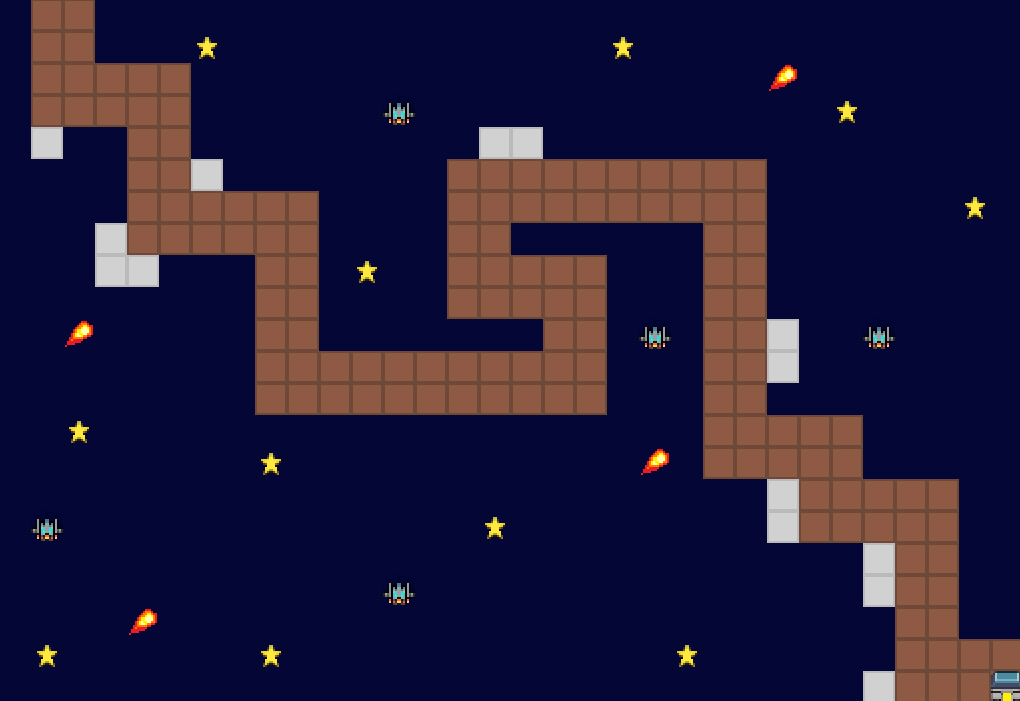
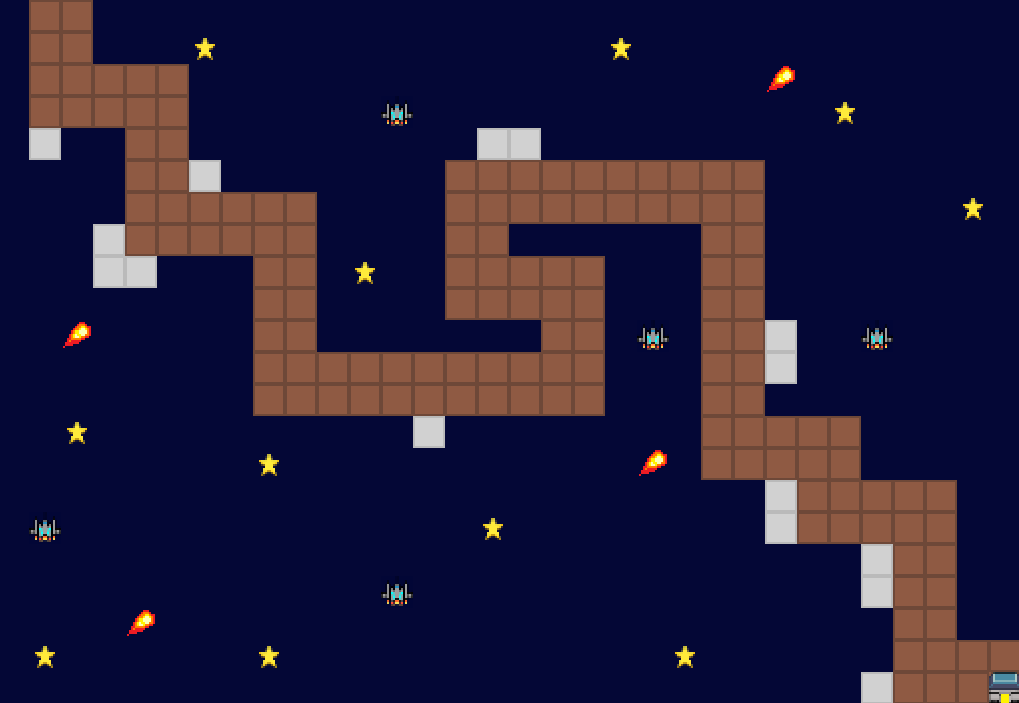
changement terrain

diff --git a/src/main/java/com/example/sae/modele/Terrain.java b/src/main/java/com/example/sae/modele/Terrain.java
@@ -1,5 +1,8 @@
 package com.example.sae.modele;
 
+import javax.swing.*;
+import java.awt.*;
+
 public class Terrain {
     public final static int POSEV=4;
 
@@ -20,7 +23,7 @@ public class Terrain {
                     {0, 0, 6, 0, 0, 0, 0, 0, 1, 1, 0, 0, 0, 0, 0, 0, 0, 1, 1, 0, 7, 0, 1, 1, 4, 0, 0, 7, 0, 0, 0, 0},
                     {0, 0, 0, 0, 0, 0, 0, 0, 1, 1, 1, 1, 1, 1, 1, 1, 1, 1, 1, 0, 0, 0, 1, 1, 4, 0, 0, 0, 0, 0, 0, 0},
                     {0, 0, 0, 0, 0, 0, 0, 0, 1, 1, 1, 1, 1, 1, 1, 1, 1, 1, 1, 0, 0, 0, 1, 1, 0, 0, 0, 0, 0, 0, 0, 0},
-                    {0, 0, 5, 0, 0, 0, 0, 0, 0, 0, 0, 0, 0, 0, 0, 0, 0, 0, 0, 0, 0, 0, 1, 1, 1, 1, 1, 0, 0, 0, 0, 0},
+                    {0, 0, 5, 0, 0, 0, 0, 0, 0, 0, 0, 0, 0, 4, 0, 0, 0, 0, 0, 0, 0, 0, 1, 1, 1, 1, 1, 0, 0, 0, 0, 0},
                     {0, 0, 0, 0, 0, 0, 0, 0, 5, 0, 0, 0, 0, 0, 0, 0, 0, 0, 0, 0, 6, 0, 1, 1, 1, 1, 1, 0, 0, 0, 0, 0},
                     {0, 0, 0, 0, 0, 0, 0, 0, 0, 0, 0, 0, 0, 0, 0, 0, 0, 0, 0, 0, 0, 0, 0, 0, 4, 1, 1, 1, 1, 1, 0, 0},
                     {0, 7, 0, 0, 0, 0, 0, 0, 0, 0, 0, 0, 0, 0, 0, 5, 0, 0, 0, 0, 0, 0, 0, 0, 4, 1, 1, 1, 1, 1, 0, 0},
@@ -32,31 +35,42 @@ public class Terrain {
             };
         }else if (choixTerrain==2){
             this.tileMap = new int[][]{
-                    {0, 1, 1, 0, 0, 0, 0, 0, 0, 0, 0, 0, 0, 0, 0, 0, 0, 0, 0, 0, 0, 0, 0, 0, 0, 0, 0, 0, 0, 0, 0, 0},
-                    {0, 1, 1, 0, 0, 0, 5, 0, 0, 0, 0, 0, 0, 0, 0, 0, 0, 0, 0, 5, 0, 0, 0, 0, 0, 0, 0, 0, 0, 0, 0, 0},
-                    {0, 1, 1, 0, 0, 0, 0, 0, 0, 0, 0, 0, 0, 0, 0, 6, 0, 0, 0, 0, 0, 0, 0, 0, 0, 0, 0, 0, 0, 0, 0, 0},
-                    {0, 1, 1, 0, 0, 0, 0, 0, 0, 0, 0, 0, 0, 0, 0, 0, 0, 0, 0, 0, 0, 0, 0, 0, 0, 0, 5, 0, 0, 0, 0, 0},
-                    {0, 1, 1, 0, 0, 0, 6, 0, 0, 0, 0, 0, 0, 0, 0, 0, 0, 0, 0, 0, 0, 0, 0, 0, 0, 0, 0, 0, 0, 0, 0, 0},
-                    {0, 1, 1, 0, 0, 0, 0, 0, 0, 0, 0, 0, 0, 0, 0, 0, 0, 0, 0, 0, 0, 0, 0, 0, 0, 0, 0, 0, 0, 0, 0, 0},
-                    {0, 1, 1, 0, 0, 0, 0, 0, 0, 0, 0, 0, 0, 0, 0, 0, 0, 0, 0, 0, 0, 0, 0, 0, 0, 0, 0, 0, 0, 0, 5, 0},
-                    {0, 1, 1, 4, 0, 0, 0, 0, 0, 0, 0, 0, 0, 0, 0, 0, 0, 0, 0, 0, 0, 0, 5, 0, 0, 0, 0, 0, 0, 0, 0, 0},
-                    {0, 1, 1, 0, 0, 0, 0, 0, 0, 0, 0, 5, 0, 0, 0, 0, 0, 0, 0, 0, 0, 0, 0, 0, 0, 0, 0, 0, 0, 0, 0, 0},
-                    {0, 1, 1, 0, 0, 0, 0, 0, 0, 0, 0, 0, 0, 0, 0, 0, 0, 0, 0, 0, 0, 0, 0, 0, 0, 0, 6, 0, 0, 0, 0, 0},
-                    {0, 1, 1, 0, 0, 0, 0, 0, 0, 0, 0, 0, 0, 0, 4, 0, 0, 0, 0, 0, 0, 0, 0, 0, 0, 0, 0, 0, 0, 0, 0, 0},
-                    {0, 1, 1, 1, 1, 1, 1, 1, 1, 1, 1, 1, 1, 1, 1, 1, 1, 1, 1, 1, 1, 1, 1, 1, 4, 0, 0, 0, 0, 0, 0, 0},
-                    {0, 1, 1, 1, 1, 1, 1, 1, 1, 1, 1, 1, 1, 1, 1, 1, 1, 1, 1, 1, 1, 1, 1, 1, 0, 0, 0, 0, 0, 0, 0, 0},
-                    {0, 4, 0, 0, 0, 0, 0, 0, 0, 0, 0, 0, 0, 0, 0, 0, 0, 0, 0, 0, 0, 0, 1, 1, 0, 0, 0, 0, 0, 0, 0, 0},
-                    {0, 0, 0, 0, 0, 0, 0, 0, 5, 0, 0, 0, 0, 0, 0, 0, 0, 0, 0, 0, 0, 0, 1, 1, 0, 0, 0, 0, 0, 0, 0, 0},
-                    {0, 0, 0, 0, 0, 0, 0, 0, 0, 0, 0, 0, 0, 0, 0, 0, 0, 0, 0, 0, 0, 0, 1, 1, 1, 1, 1, 1, 1, 1, 0, 0},
-                    {0, 0, 0, 0, 0, 0, 0, 0, 0, 0, 0, 0, 0, 0, 0, 5, 0, 0, 0, 0, 0, 0, 1, 1, 1, 1, 1, 1, 1, 1, 0, 0},
-                    {0, 0, 0, 0, 0, 0, 0, 0, 0, 0, 0, 0, 0, 0, 0, 0, 0, 0, 6, 0, 0, 0, 0, 0, 0, 0, 0, 4, 1, 1, 0, 0},
-                    {0, 0, 0, 0, 6, 0, 0, 0, 0, 0, 0, 0, 0, 0, 0, 0, 0, 0, 0, 0, 0, 0, 0, 0, 0, 0, 0, 0, 1, 1, 0, 0},
-                    {0, 0, 0, 0, 0, 0, 0, 0, 0, 0, 0, 0, 0, 0, 0, 0, 0, 0, 0, 0, 0, 0, 0, 0, 0, 0, 0, 0, 1, 1, 0, 0},
-                    {0, 5, 0, 0, 0, 0, 0, 0, 5, 0, 0, 0, 0, 0, 0, 0, 0, 0, 0, 0, 0, 5, 0, 0, 0, 0, 0, 0, 1, 1, 1, 1},
-                    {0, 0, 0, 0, 0, 0, 0, 0, 0, 0, 0, 0, 0, 0, 0, 0, 0, 0, 0, 0, 0, 0, 0, 0, 0, 0, 0, 0, 1, 1, 1, 2},
+                    {0, 1, 1, 0, 0, 5, 0, 0, 0, 0, 0, 0, 0, 6, 0, 0, 0, 0, 5, 0, 0, 0, 0, 0, 0, 0, 0, 0, 0, 0, 6, 0},
+                    {0, 1, 1, 0, 0, 0, 0, 0, 0, 4, 0, 0, 0, 0, 0, 0, 0, 0, 0, 0, 0, 4, 0, 0, 0, 0, 0, 0, 0, 0, 0, 0},
+                    {0, 1, 1, 0, 0, 0, 1, 1, 1, 1, 1, 1, 1, 1, 1, 1, 1, 1, 1, 1, 1, 1, 1, 1, 1, 1, 1, 1, 1, 1, 0, 0},
+                    {0, 1, 1, 0, 0, 0, 1, 1, 1, 1, 1, 1, 1, 1, 1, 1, 1, 1, 1, 1, 1, 1, 1, 1, 1, 1, 1, 1, 1, 1, 0, 0},
+                    {0, 1, 1, 0, 0, 0, 1, 1, 0, 0, 0, 0, 0, 0, 0, 0, 0, 0, 0, 0, 0, 0, 0, 0, 0, 0, 0, 0, 1, 1, 0, 0},
+                    {0, 1, 1, 0, 0, 0, 1, 1, 0, 0, 0, 0, 6, 0, 0, 0, 0, 5, 0, 1, 1, 1, 0, 0, 0, 5, 0, 0, 1, 1, 0, 0},
+                    {0, 1, 1, 0, 0, 0, 1, 1, 0, 0, 0, 0, 0, 0, 0, 0, 0, 0, 0, 1, 0, 1, 0, 0, 0, 0, 0, 0, 1, 1, 0, 5},
+                    {0, 1, 1, 0, 4, 0, 1, 1, 0, 0, 0, 0, 0, 0, 0, 0, 0, 2, 1, 1, 4, 1, 1, 1, 0, 0, 0, 1, 1, 1, 0, 0},
+                    {0, 1, 1, 0, 0, 0, 1, 1, 0, 0, 0, 5, 0, 0, 0, 0, 0, 0, 0, 1, 0, 1, 0, 1, 0, 0, 0, 1, 4, 1, 0, 0},
+                    {0, 1, 1, 0, 0, 0, 1, 1, 0, 0, 0, 0, 0, 0, 0, 0, 0, 0, 0, 1, 1, 1, 0, 1, 0, 0, 1, 1, 1, 1, 0, 0},
+                    {0, 1, 1, 0, 5, 0, 1, 1, 0, 0, 0, 0, 0, 0, 4, 0, 0, 0, 0, 0, 0, 0, 0, 1, 0, 0, 1, 0, 0, 0, 0, 0},
+                    {0, 1, 1, 0, 0, 0, 1, 1, 0, 0, 0, 0, 0, 1, 1, 1, 1, 1, 1, 1, 1, 1, 1, 1, 0, 0, 1, 0, 6, 0, 0, 0},
+                    {0, 1, 1, 0, 0, 0, 1, 1, 0, 6, 0, 0, 0, 1, 1, 1, 1, 1, 1, 1, 1, 1, 1, 4, 0, 0, 1, 0, 0, 0, 0, 0},
+                    {0, 1, 1, 0, 0, 0, 1, 1, 0, 0, 0, 0, 0, 1, 1, 0, 0, 0, 0, 0, 0, 0, 0, 0, 6, 0, 1, 0, 0, 0, 0, 0},
+                    {0, 1, 1, 0, 6, 0, 1, 1, 0, 0, 0, 0, 0, 1, 1, 0, 0, 0, 0, 0, 0, 0, 0, 0, 0, 0, 1, 0, 0, 0, 0, 0},
+                    {0, 1, 1, 0, 0, 0, 1, 1, 0, 0, 5, 0, 0, 1, 1, 0, 0, 0, 5, 0, 0, 0, 1, 1, 1, 1, 1, 0, 0, 0, 0, 0},
+                    {0, 1, 1, 0, 0, 0, 1, 1, 0, 0, 0, 0, 0, 1, 1, 0, 0, 0, 0, 0, 0, 0, 1, 1, 1, 1, 1, 0, 0, 0, 0, 0},
+                    {0, 1, 1, 0, 4, 0, 1, 1, 0, 0, 0, 0, 0, 1, 1, 4, 0, 0, 0, 0, 0, 0, 1, 1, 4, 0, 0, 0, 0, 0, 0, 0},
+                    {0, 1, 1, 1, 1, 1, 1, 1, 0, 0, 0, 6, 0, 1, 1, 1, 1, 1, 1, 1, 1, 1, 1, 1, 0, 0, 0, 0, 5, 0, 0, 0},
+                    {0, 1, 1, 1, 1, 1, 1, 1, 0, 0, 0, 0, 0, 1, 1, 1, 1, 1, 1, 1, 1, 1, 1, 1, 0, 0, 0, 0, 0, 0, 0, 0},
+                    {0, 0, 0, 0, 0, 0, 0, 0, 0, 0, 0, 0, 0, 0, 0, 0, 0, 0, 0, 0, 0, 0, 0, 0, 0, 6, 0, 0, 0, 0, 0, 0},
+                    {5, 0, 0, 0, 0, 0, 0, 0, 0, 5, 0, 0, 0, 0, 0, 0, 0, 0, 0, 0, 0, 5, 0, 0, 0, 0, 0, 0, 0, 0, 0, 0},
             };
 
         }
+    }
+
+    public Point trouverxyStation() {
+        for (int i = 0; i < tileMap.length; i++) {
+            for (int j = 0; j < tileMap[i].length; j++) {
+                if (tileMap[i][j] == 2) {
+                    return new Point(i, j);
+                }
+            }
+        }
+        return null;
     }
 
     public boolean estAInterieurTerrain(int x, int y) {

diff --git a/src/main/java/com/example/sae/modele/Environnement.java b/src/main/java/com/example/sae/modele/Environnement.java
@@ -35,7 +35,7 @@ public class Environnement {
         this.boutique = new Boutique();
         this.vague = new Vague(terrain, this, boutique);
         this.nombreEnnemis = new SimpleIntegerProperty(0);
-        this.chemin = BFS.bfs(terrain.getTileMap(),new Point(0, 3), new Point(21, 31));
+        this.chemin = BFS.bfs(terrain.getTileMap(),new Point(0, 3), terrain.trouverxyStation());
         for (Point tuile : chemin) {
             System.out.println(tuile);
         }
